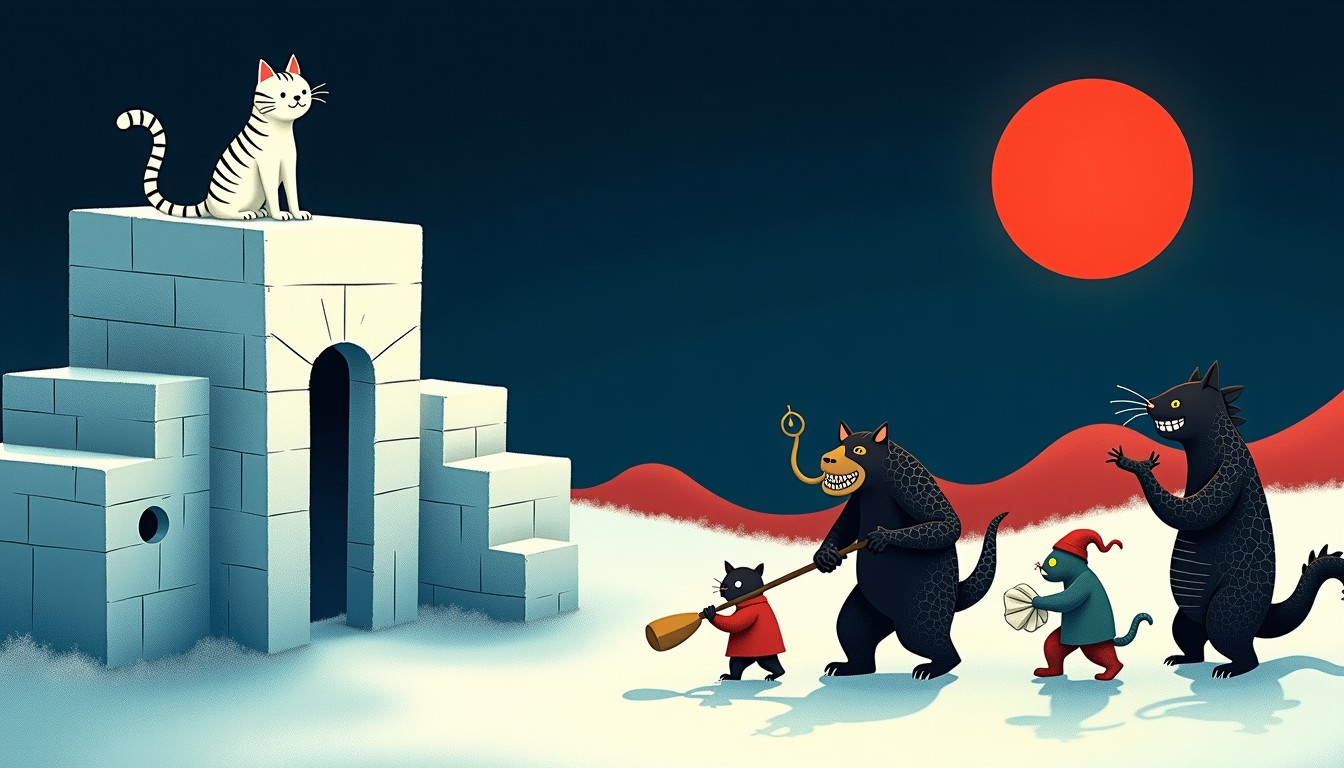
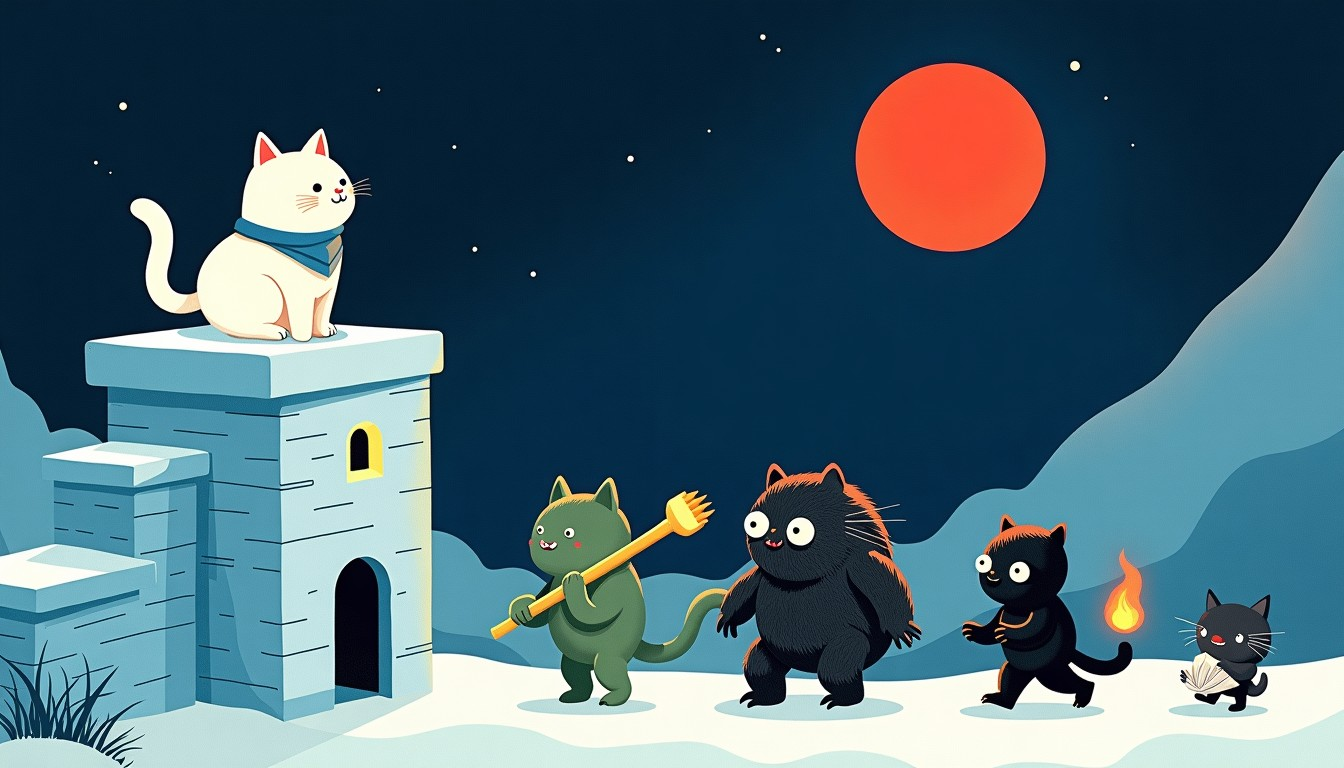
feat: v9 고양이 정본 교정·비주얼 8종 + 노션 제자리 갱신(아트 하단) + 톤앤매너 가이드 주입
- 서리발톱 정본 교정: 백호→흰 집고양이(단색+청 목수건, 줄무늬 금지) — 키비주얼 4종 전량 재생성
- 신규 비주얼: keyvisual-treasure(설한풍 한벌옷 심층 파밍)·icons-armor·icons-accessories
- GDD 8장 v9(프롬프트 규칙: tiger/stripes 금지·콘텐츠 필터 함정), 아트 명세서 v9
- 노션 발행 제자리 갱신: 자식 페이지 key+해시 재사용(휴지통행 0, 실측 재사용 21/신규 0), 앵커 after 삽입, 아트 칸 허브 맨 아래
- 톤앤매너 가이드: /api/obsidian/style + styleBlock() — 볼트 '톤앤매너' 노트를 회의·보고서·명세서·브리핑·다듬어 발행에 주입(2분 캐시, 오너 편집 즉시 반영)

diff --git a/webapp/src/store.ts b/webapp/src/store.ts
@@ -84,6 +84,7 @@ import {
   listObsidianLearnNotes,
   fetchObsidianNote,
   librarianBlock,
+  styleBlock,
   type ObsidianStatus,
   type ObsidianNoteInfo,
 } from "./lib/obsidian";
@@ -1381,7 +1382,15 @@ export const useVE = create<VEState>()((set, get) => {
       } catch {
         /* 사서 실패는 회의를 막지 않는다 */
       }
-      const decisionsText = [decisionsBlock(get().decisions), librarian].filter(Boolean).join("\n\n");
+      // 🎨 톤앤매너 가이드 — 볼트 정본을 전 섹션 생산 프롬프트에 주입 (오너 지시 2026-07-14: 문체 널뜀 교정)
+      let style = "";
+      try {
+        style = await styleBlock();
+        if (style) pushFeed({ from: "system", kind: "status", text: "🎨 톤앤매너 가이드(볼트 정본)를 회의 전원에게 배포했습니다." });
+      } catch {
+        /* 가이드 실패도 회의를 막지 않는다 */
+      }
+      const decisionsText = [decisionsBlock(get().decisions), style, librarian].filter(Boolean).join("\n\n");
       // 회의 전 스냅샷 — 끝난 뒤 "🔍 변경 확인"(diff)과 "⏪ 되돌리기"의 기준이 된다
       set({ orchBaseline: baseMd, meetingDiffOpen: false });
 
@@ -1925,7 +1934,7 @@ export const useVE = create<VEState>()((set, get) => {
         }
         const r = await gateway.runAgent(
           agentId,
-          reportPrompt(agent, title, gddFull, knowledgeBlockFor(agentId, get().knowledge, title)),
+          reportPrompt(agent, title, gddFull, [knowledgeBlockFor(agentId, get().knowledge, title), await styleBlock()].filter(Boolean).join("\n\n")),
           `report-${project}-${Date.now().toString(36)}`
         );
         const markdown = sanitizeAgentOutput(r.text);
@@ -2474,7 +2483,7 @@ export const useVE = create<VEState>()((set, get) => {
           try {
             const r = await gateway.runAgent(
               "archivist",
-              notionPolishPrompt(header.replace(/^##\s*/, ""), body),
+              notionPolishPrompt(header.replace(/^##\s*/, ""), body, await styleBlock()),
               `polish-${project}-${Date.now().toString(36)}`
             );
             const clean = sanitizeAgentOutput(r.text);
@@ -2641,7 +2650,7 @@ export const useVE = create<VEState>()((set, get) => {
           .join("\n");
         const r = await gateway.runAgent(
           "pm",
-          briefingPrompt(projectName, gddFull, reportLines, knowledgeBlockFor("pm", get().knowledge)),
+          briefingPrompt(projectName, gddFull, reportLines, [knowledgeBlockFor("pm", get().knowledge), await styleBlock()].filter(Boolean).join("\n\n")),
           `brief-${project}-${Date.now().toString(36)}`
         );
         const text = sanitizeAgentOutput(r.text) || "(빈 브리핑)";
@@ -3171,7 +3180,7 @@ export const useVE = create<VEState>()((set, get) => {
         setAgentStatus("td", "running");
         const r = await gateway.runAgent(
           "td",
-          reportPrompt(AGENT_MAP["td"], DEFAULT_REPORT_TOPIC["td"], baseMd, knowledgeBlockFor("td", get().knowledge, "유니티 개발")),
+          reportPrompt(AGENT_MAP["td"], DEFAULT_REPORT_TOPIC["td"], baseMd, [knowledgeBlockFor("td", get().knowledge, "유니티 개발"), await styleBlock()].filter(Boolean).join("\n\n")),
           `${tag}-doc`
         );
         const md = sanitizeAgentOutput(r.text);

diff --git a/webapp/vite.config.ts b/webapp/vite.config.ts
@@ -305,13 +305,16 @@ function notionPayload(projectId: string) {
       day: "낮 — 백일폭염",
       bossfight: "보스전 — 백중날의 강철이 vs 신기전 화차",
       nap: "냥잠 — 까치 벗과 한낮의 휴식",
+      treasure: "보물 상자 — 설한풍 한벌옷 차림의 심층 파밍 (v8 장비·악세)",
       summon: "아이콘 예시 — 보스 소환템 4종(씨름 샅바·무쇠 미끼·얼음 제단 봉헌·가뭄 부적)",
+      armor: "아이콘 예시 — 장비 3부위×3티어(짚·무쇠·얼음강철)",
+      accessories: "아이콘 예시 — 악세사리 6종(노리개·댕기·구슬·얼음 심장·복주머니·감투)",
     };
     const keyVisuals = fs.existsSync(artDir)
       ? fs
           .readdirSync(artDir)
           .filter((f) => /^(keyvisual|icons)-.+\.png$/i.test(f))
-          .sort()
+          .sort((a, b) => Number(/^icons-/i.test(a)) - Number(/^icons-/i.test(b)) || a.localeCompare(b)) // 키비주얼 먼저, 아이콘 시트 나중
           .map((f) => ({
             path: path.join(artDir, f),
             caption: kvCaption[f.replace(/^(keyvisual|icons)-|\.png$/gi, "")] ?? f,
@@ -1719,6 +1722,42 @@ function obsidianApiPlugin(): Plugin {
                 return bt - at || b.mtime - a.mtime;
               });
               res.end(JSON.stringify({ ok: true, results }));
+              return;
+            }
+
+            // 🎨 톤앤매너 가이드 — 파일명에 "톤앤매너"가 든 노트를 정본으로 서빙 (오너 지시 2026-07-14:
+            // 산출물 문체가 들쭉날쭉 → 볼트의 가이드 노트를 모든 생산 프롬프트에 주입).
+            // 오너 자필(비-내보내기) 우선, 동률이면 최신 수정본. 없으면 found:false — 기능 전체가 조용히 꺼진다.
+            if (sub === "/style" && req.method === "GET") {
+              const cands: { file: string; rel: string; mtime: number; fromExport: boolean }[] = [];
+              for (const file of walkVaultMd(vault, true)) {
+                if (!path.basename(file, ".md").includes("톤앤매너")) continue;
+                let stat: fs.Stats;
+                try {
+                  stat = fs.statSync(file);
+                } catch {
+                  continue;
+                }
+                const rel = path.relative(vault, file).replace(/\\/g, "/");
+                cands.push({ file, rel, mtime: Math.floor(stat.mtimeMs), fromExport: rel.startsWith(`${OBSIDIAN_EXPORT_DIR}/`) });
+              }
+              cands.sort((a, b) => (a.fromExport ? 1 : 0) - (b.fromExport ? 1 : 0) || b.mtime - a.mtime);
+              const pick = cands[0];
+              if (!pick) {
+                res.end(JSON.stringify({ found: false }));
+                return;
+              }
+              const md = fs.readFileSync(pick.file, "utf-8");
+              const { body } = parseFrontmatter(md);
+              res.end(
+                JSON.stringify({
+                  found: true,
+                  path: pick.rel,
+                  title: path.basename(pick.file, ".md"),
+                  content: stripInternalUrls(stripWikiLinks(body)).slice(0, 6000),
+                  mtime: pick.mtime,
+                })
+              );
               return;
             }
 

diff --git a/webapp/src/lib/obsidian.ts b/webapp/src/lib/obsidian.ts
@@ -73,6 +73,30 @@ export async function searchObsidian(q: string): Promise<ObsidianSearchHit[]> {
   }
 }
 
+/* ── 🎨 톤앤매너 가이드 (오너 지시 2026-07-14: 산출물 문체 널뜀 교정) ──
+ * 볼트에서 파일명에 "톤앤매너"가 든 노트를 정본으로 읽어 모든 생산 프롬프트에 주입한다.
+ * 오너가 옵시디언에서 노트를 고치면 다음 호출(캐시 2분)부터 반영 — 게이트웨이 재시작 불필요. */
+
+let styleCache: { text: string; at: number } | null = null;
+
+export async function styleBlock(): Promise<string> {
+  if (styleCache && Date.now() - styleCache.at < 120_000) return styleCache.text;
+  let text = "";
+  try {
+    const r = await fetch("/api/obsidian/style");
+    if (r.ok) {
+      const j = await r.json();
+      if (j.found && j.content) {
+        text = `[🎨 톤앤매너 가이드 — 오너 정본(볼트 「${j.title}」). 아래 문체·용어·톤 규칙을 산출물에 그대로 적용하고, 가이드와 충돌하는 표현은 고쳐 써라]\n${String(j.content).slice(0, 2500)}`;
+      }
+    }
+  } catch {
+    /* 볼트 없음/실패 = 가이드 없이 진행 */
+  }
+  styleCache = { text, at: Date.now() };
+  return text;
+}
+
 /** 회의 주입용 사서 블록 — 요청과 관련된 볼트 노트 상위 n건을 발췌한다 (없으면 빈 문자열) */
 export async function librarianBlock(query: string, n = 3): Promise<string> {
   const all = await searchObsidian(query);

diff --git a/webapp/src/lib/agents.ts b/webapp/src/lib/agents.ts
@@ -660,7 +660,7 @@ export function notionEditPrompt(
 }
 
 /** 발행 전 다듬기 — 아키비스트가 GDD 섹션을 오너 노션 스타일로 재포맷 (내용 불변) */
-export function notionPolishPrompt(sectionTitle: string, body: string): string {
+export function notionPolishPrompt(sectionTitle: string, body: string, styleGuide = ""): string {
   return [
     `너는 노션 아키비스트다. 아래 기획 섹션을 오너의 노션 스타일로 재포맷해라 — 내용(사실·수치·결정)은 절대 바꾸지 말고 형태만 다듬는다.`,
     ``,
@@ -668,6 +668,7 @@ export function notionPolishPrompt(sectionTitle: string, body: string): string {
     `- "### 1. 소제목" 숫자 소제목 → 바로 아래 **볼드 리드 한 문장** → 불릿 상세 순서.`,
     `- 표 데이터는 헤더 행 포함 마크다운 표로. 이미 표면 유지.`,
     `- 개조식(명사형 종결). 합니다체 금지. 원문에 없는 내용 추가 금지, 있는 내용 삭제 금지.`,
+    ...(styleGuide ? [``, styleGuide] : []),
     ``,
     `[섹션: ${sectionTitle}]`,
     body.slice(0, 6000),

diff --git a/workspace/projects/pmrixgw33/GDD.md b/workspace/projects/pmrixgw33/GDD.md
@@ -442,7 +442,7 @@ MVP는 일수(30일)뿐 아니라 **다음 코어 콘텐츠가 돌아가야 "테
 | 26~30일 | 70 | 101 | 냉기 3호기 −40 + 장갑 −25 | **36** |
 - 총수급 **221** vs 소비 185 — 잔여 36은 **가뭄 부적(눈물×30, 6-9)의 30일 내 1회 소비를 처음 가능케 함**(강철이 재소환 시연 어필, 과잉분 소비처 확보) ✅.
 
-#### ③ 까치 벗 — 순수 QoL (호작도 까치 × 백호 서리발톱, 8장 레퍼런스 정합)
+#### ③ 까치 벗 — 순수 QoL (호작도 까치 × 흰 고양이 서리발톱, 8장 레퍼런스 정합)
 | 항목 | 수치 | 근거 |
 |---|---|---|
 | 까치 둥지 | 나무×8 + 삼줄기×6 · 작업대 · 10초 [메인 헤드 확정] | 보금자리와 같은 온보딩 티어 설치물 |
@@ -535,7 +535,7 @@ MVP는 일수(30일)뿐 아니라 **다음 코어 콘텐츠가 돌아가야 "테
 
 ### 8-1. 방향 판정 — "조선 민화풍" 채택 (메인 헤드 추천안 승인, 조건부 발전)
 - **판정: 타당, 채택.** 근거 3가지: ① 민화의 평면 채색+굵은 먹선은 도트 아트의 외곽선·제한 팔레트 문법과 1:1 호환(변환 비용 최소), ② 호작도·민화 도깨비의 "무섭지 않고 얄미운" 익살은 정본 톤 "공포 없는 청량함"과 정확히 정합, ③ 오방색은 티어/기능 색 코딩 체계로 그대로 전용 가능. 대안으로 검토한 수묵담채는 번짐·농담 표현이 16×16px에서 전부 소실되어 기각, 일반 "조선풍(기와·한복 소품 나열)"은 정체성이 배경 소품에 머물러 기각.
-- **채택 조건 3개(16px 가독·물량 한계 반영)**: 호작도 줄무늬는 등·꼬리에 2~3px 획으로 축약 / 단청 문양은 석빙고 모듈 타일 상단 2px 머리초 띠로만(전면 단청은 물량 초과) / 오방색은 포인트 전용, 주조는 청량 톤 유지.
+- **채택 조건 3개(16px 가독·물량 한계 반영, v9 개정)**: 주인공은 어디까지나 **고양이** — 호작도에서 왕눈·능청 비례의 익살만 차용하고 **줄무늬는 쓰지 않는다**(백호 오독 방지, 오너 교정 2026-07-14) / 단청 문양은 석빙고 모듈 타일 상단 2px 머리초 띠로만(전면 단청은 물량 초과) / 오방색은 포인트 전용, 주조는 청량 톤 유지.
 
 ### 8-2. 스타일 정의
 - 도트, 타일 16×16px 고정. 모든 스프라이트에 1px 먹선(#1A1A24) 외곽 — 민화 먹선의 도트 번역이자 폭염·설원 어느 배경에서도 실루엣을 분리하는 가독 장치.
@@ -553,7 +553,7 @@ MVP는 일수(30일)뿐 아니라 **다음 코어 콘텐츠가 돌아가야 "테
 - 낮↔밤 전환은 타일 원본 1벌 + 팔레트 LUT 2종 스왑으로 처리 — 아트 물량 절반 절감(개발 A 셰이더 협업).
 
 ### 8-4. 캐릭터 스펙 (v4 — 요괴 5종)
-- **서리발톱**: 호작도 호랑이의 백호 재해석 — 백색(#F5F1E8) 몸통 + 등·꼬리 흑 줄무늬 2~3px + 청색 눈. 낮엔 처진 귀·헥헥 혀, 밤엔 세운 귀·반짝 눈 — 자세만으로 낮밤 상태 읽힘.
+- **서리발톱 (v9 교정 — 백호 아님, 흰 집고양이)**: 백색(#F5F1E8) **단색** 몸통 + **청 #1E5AA8 목수건**(아군 식별색 = UI 청과 정합, 16px에서도 실루엣 포인트) + 청색 눈. **줄무늬 전면 금지** — 구판 "백호 재해석 + 흑 줄무늬"는 키비주얼이 호랑이로 오독되는 실측 결과로 폐기(오너 교정 2026-07-14), 호작도에서는 왕눈·능청 비례만 차용. 낮엔 처진 귀·헥헥 혀, 밤엔 세운 귀·반짝 눈 — 자세만으로 낮밤 상태 읽힘.
 - **요괴 5종 (정본 4-1 명칭 — 전 종 1px 먹선 #1A1A24, 어둑시니만 예외)**:
 
 | 요괴 (출현) | 실루엣 · 크기 | 오방색 배색 (8-3 HEX) | 16px 가독 포인트 | 공격 예고 | 민화 레퍼런스 |
@@ -580,14 +580,16 @@ MVP는 일수(30일)뿐 아니라 **다음 코어 콘텐츠가 돌아가야 "테
 | 타일셋 3장(지상+폐허 / 지하 3레이어·자원 / 석빙고 모듈·차열벽) 60타일 + 설치물 3종 편입 = 63타일 + LUT 2종 | 3장 (+5%) | 아트 A |
 | 배경 패럴랙스 낮·밤 각 2레이어 | 4장 | 아트 A |
 | 요괴 5종 — 방망이6f·불가사리6f·야광귀4f(대기=이동 겸용)·어둑시니4f(이동 없음, 트랜스폼)·강철이6f(유영은 세그먼트 웨이브) | 26프레임 (구 24f +8.3%) | 아트 B |
-| UI/HUD: 체온바·밀폐도 게이지·D-카운터·인벤 12슬롯·제작 아이콘(발톱 강화·주괴·단열·꾸미기) + 장비 9·악세사리 6 아이콘 + 보물 상자 개폐 2f (v8 — **장비 착용 외형 변화 없음: 아이콘만**. 소환템 4종은 icons-summon.png 예시 완료) | 1세트 | 아트 B |
+| UI/HUD: 체온바·밀폐도 게이지·D-카운터·인벤 12슬롯·제작 아이콘(발톱 강화·주괴·단열·꾸미기) + 장비 9·악세사리 6 아이콘 + 보물 상자 개폐 2f (v8 — **장비 착용 외형 변화 없음: 아이콘만**. 소환템·장비·악세 아이콘 예시 완료: icons-summon·armor·accessories.png) | 1세트 | 아트 B |
 | 이펙트: 결빙 3f·화염 3f·타일 파괴 2f — 불가사리·강철이 브레스는 화염 3f 재활용 | 8프레임 | 아트 B |
 - **컷 순위(먼저 버리는 순)**: ① 패럴랙스 2레이어→단색 그라데이션 1장 ② 확장 보스 2종(어미 불가사리·이무기 — 데모 컷라인은 6장) ③ 불가사리·강철이 공격 2f→1f(예고선·트랜스폼이 예고 대행) ④ 서리발톱 헥헥·피격 모션 ⑤ 단청 머리초 띠. **절대 컷 불가**: 요괴 5종 실루엣 구분, 3상황 팔레트 스왑, HUD 게이지 2종, **등불(어둑시니 카운터 — 게임플레이 필수)**.
 
-### 8-6. 키비주얼 — 생성 완료 (실측) + 프롬프트
-- ✅ **키비주얼 4종 생성 완료** (NVIDIA flux.1-dev, 1344×768): `art/keyvisual-night.png`(요괴 행렬 습격) · `keyvisual-day.png`(백일폭염 낮) · `keyvisual-bossfight.png`(v6 — 백중날 강철이 vs 신기전 화차 보스전) · `keyvisual-nap.png`(v6 — 냥잠+까치 벗, 냉온 대비). 노션 발행 파이프라인이 art/keyvisual-*.png를 자동 동봉.
-- 밤 씬 프롬프트: `Korean minhwa folk painting key visual, traditional hanji mulberry paper texture, bold black ink outlines, flat matte colors, obangsaek five-color palette, summer night navy sky, a white cat hero with black tiger stripes guarding a stone ice-house fortress of glowing ice-blue blocks, four mischievous Korean yokai marching — a goblin with an oversized yellow club, an iron-scaled beast with bear body and elephant trunk snorting embers, a tiny grinning imp clutching a white bundle of stolen shoes, a faceless shadow creature with glowing teal eyes — and a huge drought-serpent dragon coiling as a red silhouette across the night sky, flattened folk-art perspective, playful mischievous mood, not scary` (negative: `photorealism, 3D render, horror, gore, gradient shading, anime style, text, watermark`)
-- 낮 씬 프롬프트: `Korean minhwa folk painting key visual, hanji paper texture, bold black ink outlines, flat matte colors, a giant blazing sun with stylized folk-art flame rays in a hot orange sky, dry fields, a small cute white cat with black tiger stripes resting in one cool blue shadow patch next to a Korean stone ice-house with an arched entrance, a thin serpent silhouette coiling near the sun, flat folk-art perspective, bright cheerful colors, daytime` (negative: `photorealism, 3D render, lens flare, horror, anime style, human characters, text, watermark`)
+### 8-6. 키비주얼·아이콘 — v9 전량 재생성 완료 (실측) + 프롬프트 규칙
+- ✅ **v9 비주얼 7종 생성 완료** (NVIDIA flux.1-dev, 키비주얼 1344×768 · 아이콘 시트 1024×1024): `art/keyvisual-night.png`(요괴 행렬 습격) · `keyvisual-day.png`(백일폭염 낮) · `keyvisual-bossfight.png`(백중날 강철이 vs 신기전 화차) · `keyvisual-nap.png`(냥잠+까치 벗) · **`keyvisual-treasure.png`(v8 신규 — 설한풍 한벌옷 차림의 심층 보물 상자 파밍; 인게임 스프라이트는 장비 외형 미반영이므로 키비주얼 전용 연출)** · **`icons-armor.png`(장비 3부위×3티어 예시)** · **`icons-accessories.png`(악세사리 6종 예시)** + 기존 `icons-summon.png`(소환템 4종). 노션 발행 파이프라인이 art/(keyvisual|icons)-*.png를 자동 동봉(허브 맨 아래 아트 칸).
+- **주인공 공통 문구 (v9 필수)**: `a small cute white domestic house cat with plain solid white fur, round face, blue eyes, wearing a small blue neckerchief scarf` — **`tiger`·`stripes` 단어 전면 금지.** 실측: 민화(minhwa) 스타일 단어 자체가 까치호랑이 도상에 편향되어, 구판 문구(white cat with black tiger stripes)로는 4종 전부 호랑이로 출력됐다(오너 지적으로 발견, v9 전량 재생성).
+- **콘텐츠 필터 함정 (실측)**: `shooting fire arrows at ...` 같은 직접 공격 묘사는 전 시드 동일 크기(6KB) 퇴화 이미지를 반환한다(시드 무관 = 필터). 불꽃놀이·축제 묘사(`rocket arrows trailing golden firework sparks`)로 완화하면 통과.
+- 밤 씬 프롬프트: `Korean minhwa folk painting key visual, traditional hanji mulberry paper texture, bold black ink outlines, flat matte colors, obangsaek five-color palette, summer night navy sky with a red moon, [주인공 공통 문구] standing guard on top of a stone ice-house fortress of glowing ice-blue blocks, four mischievous Korean yokai marching toward it — a goblin with an oversized yellow wooden club, an iron-scaled beast with a bear body and elephant trunk snorting embers, a tiny grinning imp clutching a white bundle, a faceless shadow creature with glowing teal eyes — flattened folk-art perspective, playful mischievous mood, not scary`
+- 낮·보스전·냥잠·보물 상자 씬은 동일 스타일 접두 + 주인공 공통 문구 + 장면 묘사로 구성(스크립트 scratchpad/genimg.py에 전문 보존). 아이콘 시트는 `game item icon sheet on hanji mulberry paper ... evenly spaced grid` 골격.
 
 ## 9. 기술
 

diff --git a/docs/HANDOFF.md b/docs/HANDOFF.md
@@ -19,6 +19,7 @@
 | 노션 발행 | 오너 레퍼런스 디자인(허브+개요표+섹션 자식페이지), 90초 디바운스 자동 발행. **v3.10: reflowMd** — 모델이 한 줄로 뭉친 md(벽글·문자 표)를 발행/저장 전에 구조로 복원(결정적, 서버·클라 동일 알고리즘 2벌) | `webapp/server/notion-publish.mjs`(reflowMd), `lib/gdd.ts`(reflowMd·sanitize 훅) |
 | **회의록(v3.10)** | 3명 이상 회의는 **PM 통합 실패와 무관하게** 항상 저장 — 오너 지시·참여·타임라인(지시→초안→검토→수정→취합)·검토/QA 근거·대표 결론·산출물 요약. LLM 0회. 회의 화면 "📋 회의록 보기" + 보고서함 회의록 필터 | `store.startOrch` 끝부분(feedStart 슬라이스), OrchestrationView feed-foot, DocViewer repFilter |
 | **다듬어 발행(v3.11)** | 📚 발행 시 선택 — 아키비스트가 채워진 섹션을 오너 스타일(숫자 소제목·볼드 리드·개조식·표)로 재포맷 후 발행. 섹션당 LLM 1회, **GDD 원본 불변**(발행본만). 결과가 원문 절반 미만이면 원문 유지(유실 방어) | `store.publishNotionStyled`, `notionPolishPrompt`, `/api/notion/publish`(gddMd override) |
+| **🎨 톤앤매너 가이드(v9)** | 오너 지시(2026-07-14 "문체가 예측 불가하게 널뜀") — 볼트에서 **파일명에 "톤앤매너"가 든 노트**(오너 자필 우선·최신순)를 정본으로 읽어 회의 섹션 생산·계층 회의·보고서·명세서·브리핑·다듬어 발행 프롬프트에 전부 주입. 오너가 옵시디언에서 노트를 고치면 **2분 캐시 후 자동 반영**(재시작 불필요). 노트가 없으면 기능 전체가 조용히 꺼진다. 초기 정본: 볼트 루트 `VE 톤앤매너 가이드.md`(언어·문체·게임 톤·금지 패턴 4절) | `/api/obsidian/style`(vite.config.ts), `styleBlock`(lib/obsidian.ts), store.ts 주입 5곳 |
 | **하위 기획서 생성(v3.11)** | 편집실 3번째 모드 🗂 — 부모 페이지 링크+요구 → 아키비스트가 "# 이모지 제목" 문서 작성 → 승인 시 하위 페이지로 생성(기존 페이지 무변경, 가장 안전한 반영) | `createSubpage`, `/api/notion/subpage`, NotionStudio task="subpage", store `applyNotionSubpage` |
 | **노션 편집실(v3.8)** | 링크→읽기(블록→md 역변환)→아키비스트 수정안→오너 승인→반영. 원본 자동 백업(config/notion-edits/), 하위페이지·DB 등 복합 블록은 절대 삭제 안 함, "[[유지:…]]" 마커로 보존 | `fetchPageAsMd`/`updatePageContent`, `/api/notion/read·edit`, `NotionStudio.tsx`, store `analyzeNotionPage`/`applyNotionEdit` |
 | **노션 기획 가져오기(v3.9)** | "기존 기획을 노션으로 시작" — 딥 리드: 컬럼·콜아웃 투과(flatten) + 하위 기획서 1단계 추적(상한 20개, 페이지당 8천자). 원문은 보고서함, 선택 시 PM 통합(12천자까지 전달). 슬라임 김치 허브(하위 20개, 31천자)로 실측 검증 | `fetchPageDeepAsMd`, `/api/notion/import`, OrchestrationView `onImportNotion`(퀵스타트+회의 화면 📓 버튼) |
@@ -65,7 +66,7 @@
 32. **목업·킷 프롬프트에 이전 프로젝트 고유명사를 하드코딩하지 마라** (2026-07-13): uiMockupPrompt에 슬라임 김치 화면명("주막 준비/시장 거리/장사 시작 중앙 하단")이 박혀 있어 냥빙고 목업이 엉뚱하게 나왔다. 프롬프트는 GDD 섹션에서 화면을 읽어 쓰라고("섹션에 없는 화면 지어내지 마라") 지시하고, 게임 고유 예시는 넣지 마라.
 33. **결정 원장(decisions.json)도 회의 오염 대상이다** (2026-07-13): 냥빙고 회의가 "밸런스 기준 Lv.20 체온 160·밀폐도 80%로 확정"을 원장에 적립했는데 — 이 게임은 레벨 개념이 없고(진행 축=일차), 밀폐도는 벽 flood-fill 공간값, 체온은 관리 게이지다(전부 성장 스탯 오해). 게다가 "结算/锁定" 중국어 mojibake 누수. 원장은 **다음 회의가 자동 참조**하므로 오염이 남으면 재전파된다 — GDD 검증 시 `decisions.json`도 함께 대조·교정하라(mojibake는 中日 문자 정규식으로 스캔).
 34. **PM 개요 통합이 1장 정본 테이블을 반복 유실시켰다 → 근본 수정(2026-07-13)**: 회의 종료 시 `pmSummaryPrompt` 산출이 `reflectToGdd("pm", …)`로 흘러 `replaceSection(md, "## 1.", "개요", text)`가 1장 전체를 통째로 덮어써, 메인 헤드가 작성한 정본 테이블(1-1~1-8)이 매 회의마다 사라졌다(냥빙고에서 2회 연속 발생, 백업에서 수동 복원). **처방: `reflectToGdd`에 정본 보존 가드** — `agent.section === "## 1."`이고 기존 개요에 `### 1-1` 또는 "정본 테이블"이 있으면 반영을 건너뛴다(🛡 피드 안내). 즉 정본이 한 번이라도 박히면 개요는 오너·메인 헤드 전용이 되고 회의가 못 건드린다. 정본이 없는 첫 기획에서는 기존대로 PM이 개요를 채운다. 새 자동 GDD 반영 경로를 만들면 같은 보존 가드를 고려하라.
-35. **보고서 분류(kind)와 노션 허브 재구성 함정(2026-07-14)**: 보고서는 `kind: spec|minutes|report`로 분류된다(오너 지시 — 명세서를 회의록과 분리). 분류 규칙이 **세 곳에 복제**되어 있다: ① `webapp/src/lib/reports.ts reportKind`(UI 필터) ② `webapp/server/notion-publish.mjs kindOf`(노션 📐 명세서/📋 보고서함 칸 분리) ③ `/api/reports` POST의 kind 화이트리스트. **한 곳만 고치면 UI와 노션 칸이 어긋난다 — 항상 같이 고쳐라.** kind 없는 옛 파일은 제목 휴리스틱(회의록*→minutes, /명세서|규칙|스펙|사양/→spec) 폴백. 그리고 `publishProject`는 `clearChildren`으로 허브를 통째로 재구성하므로 **발행 밖에서 직접 append한 블록은 재발행 때마다 날아간다**. → **해소(2026-07-14)**: 키비주얼은 발행 파이프라인에 내장 — `notionPayload`가 `art/keyvisual-*.png`를 스캔해 `publishProject({keyVisuals})`로 전달, `uploadImageToNotion`(File Upload API, single_part)이 개요 표 아래에 자동 업로드. 새 이미지류를 허브에 상주시키려면 같은 경로(payload→publishProject)에 태울 것.
+35. **보고서 분류(kind)와 노션 허브 재구성 함정(2026-07-14)**: 보고서는 `kind: spec|minutes|report`로 분류된다(오너 지시 — 명세서를 회의록과 분리). 분류 규칙이 **세 곳에 복제**되어 있다: ① `webapp/src/lib/reports.ts reportKind`(UI 필터) ② `webapp/server/notion-publish.mjs kindOf`(노션 📐 명세서/📋 보고서함 칸 분리) ③ `/api/reports` POST의 kind 화이트리스트. **한 곳만 고치면 UI와 노션 칸이 어긋난다 — 항상 같이 고쳐라.** kind 없는 옛 파일은 제목 휴리스틱(회의록*→minutes, /명세서|규칙|스펙|사양/→spec) 폴백. 그리고 `publishProject`는 허브 레이아웃 블록(헤딩·표·이미지)을 매 발행 재구성하므로 **발행 밖에서 직접 append한 블록은 재발행 때마다 날아간다** — 이미지류를 상주시키려면 발행 경로(`notionPayload`의 `art/(keyvisual|icons)-*.png` 스캔 → `publishProject({keyVisuals})` → `uploadImageToNotion`)에 태울 것. 아트 칸은 **허브 맨 아래**(오너 지시 2026-07-14). **v9 제자리 갱신(2026-07-14, 오너 지적 "전 문서가 휴지통으로")**: 자식 페이지는 더 이상 매 발행 삭제·재생성되지 않는다 — `notion-map.json`에 key(`gdd:N`/`spec:ts`/`rep:ts`)별 페이지 id+내용 해시를 기억해, 같으면 API 호출 0회·바뀌면 그 페이지 블록만 교체·사라진 것만 보관 처리(페이지 URL 유지). 순서는 맨 위 **앵커 문단**(피치, `map.anchorId`) 기준 `after` 삽입 + 목표 순서 접두(prefix) 일치분만 제자리 재사용으로 보장(노션 API는 블록 이동 불가 — 접두가 깨진 지점부터는 재생성). 앵커 없는 옛 허브는 1회 전체 재생성으로 마이그레이션되며, **앵커 문단을 노션에서 수동 삭제하면 다음 발행이 전체 재생성으로 돈다.**
 36. **장르 문법 오염은 수치가 아니라 구조로 스며든다 + 파생 데이터 3종 세트 동기화(2026-07-13 냥빙고 전면 리뷰)**: 회의 산출물이 테라리아식 샌드박스에 ① "지하 레이어 5일마다 해금"(달력 게이트 — 테라리아는 도구 티어·위험도로 잠근다) ② "제작은 밤에만" ③ "퀘스트로 구간 리셋"(모바일 미션 문법) ④ 플레이어 전투 스펙 통누락을 심었다 — 전부 개별 수치는 멀쩡해서 수치 검증만으론 안 잡힌다. **레퍼런스 장르의 문법 체크리스트(진행 게이트 방식·제작 조건·전투 루프 유무)로 구조를 검증하라.** 그리고 GDD를 고치면 **decisions.json + kit/data CSV + README 공식**까지 3종 세트를 같이 대조하라 — 이번에 도깨비 공식이 GDD `/4`·원장 `/3`·구 3장 `/5`로 3벌 공존했고, yokai-stats.csv엔 "수직슬라이스 1호" 오염과 폐기된 설계(최종 도깨비=컷씬 전용)가 남아 있었다. 에이전트 병렬 수정안끼리도 충돌한다(최종 도깨비 출현 25일~ vs 30일 클라이맥스, 곡괭이 T3 명칭 마력/얼음강철) — 통합 전 메인 헤드 재정이 필수.
 
 ## 3. 추천 로드맵 (다음 모델에게 — 우선순위순)
